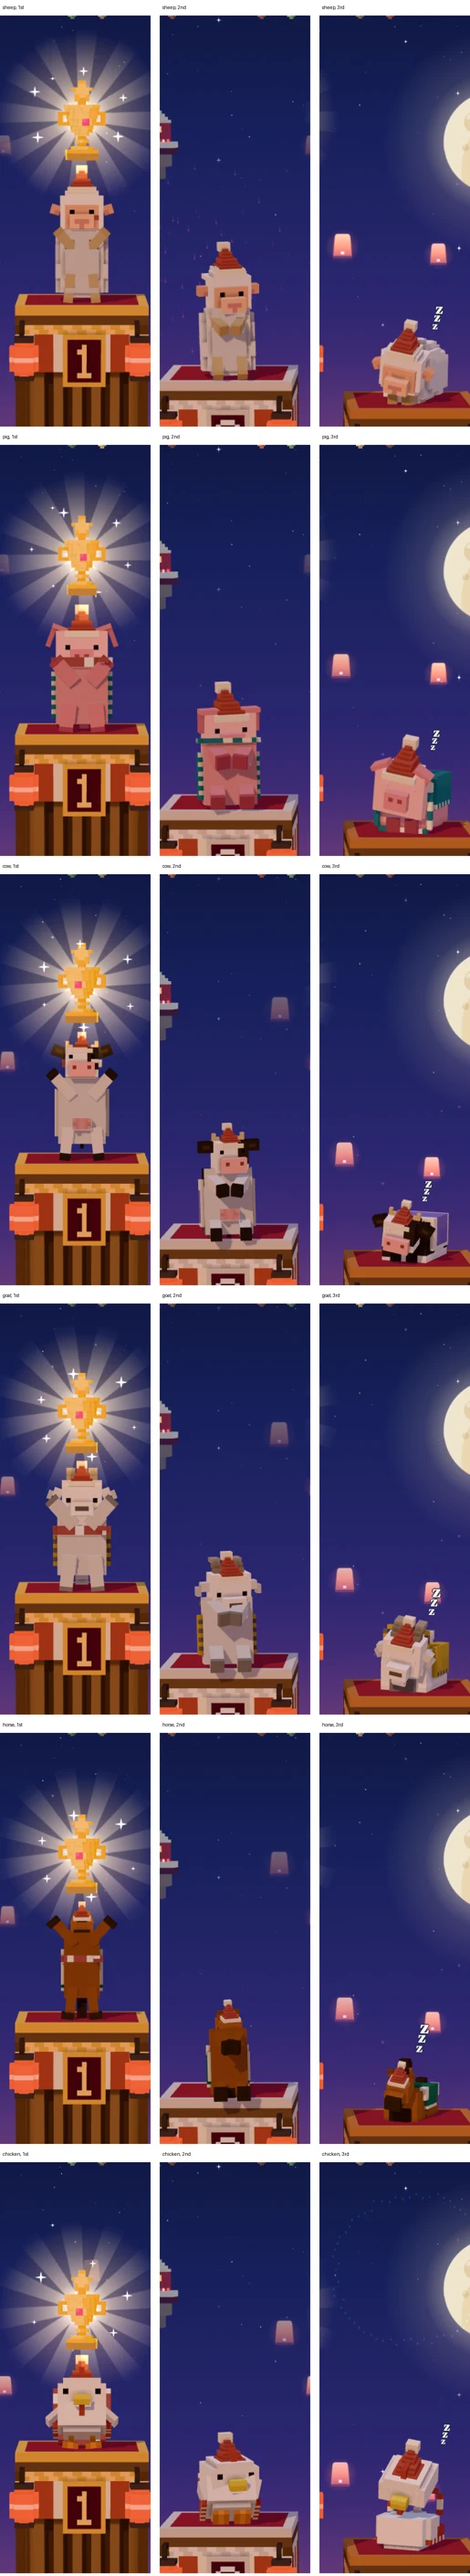
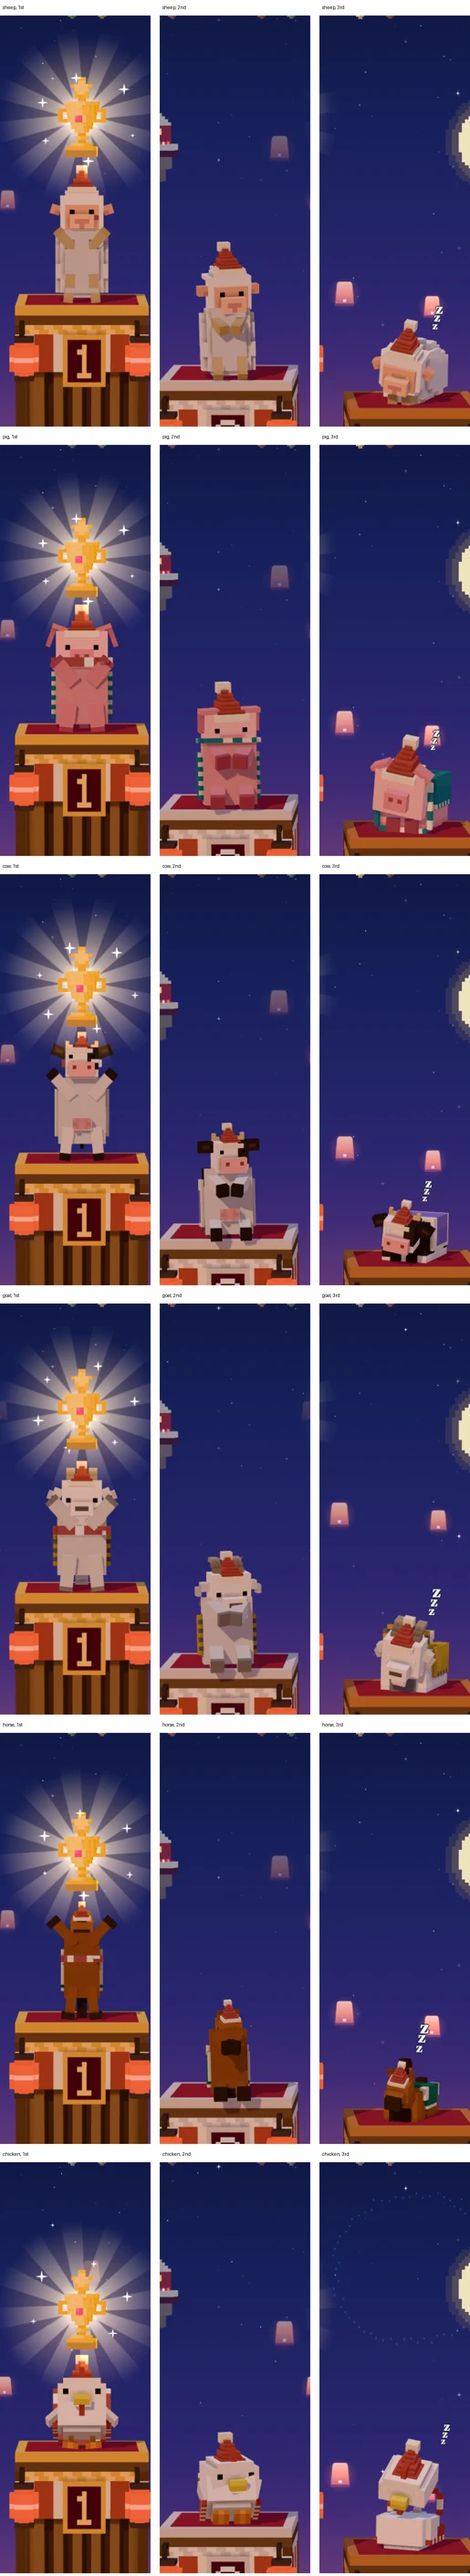
Leaderboards: a pixel-art moon, and no cloud bands
Brian, 2026-11-22: "the moon is so out of theme ... and on the left
theres a lot of these weird lines". The painted moon becomes a 32 x 32
pixel moon magnified with no smoothing (flat shade, square craters, a
glow in two warm steps), a little smaller; the thin cloud bands are
removed; the firework rocket's trail is a short spark, not a line.

Claude-Session: https://claude.ai/code/session_011o9Mj4ifzUNZZbM4Se6yLM

diff --git a/src/skin/boards/FestivalSky.tsx b/src/skin/boards/FestivalSky.tsx
@@ -4,6 +4,7 @@ import {
   AdditiveBlending, BufferGeometry, CanvasTexture, Color, Float32BufferAttribute, LineBasicMaterial, LineSegments, Points,
   PointsMaterial, SRGBColorSpace, ShaderMaterial, Sprite, SpriteMaterial, Vector2, Vector3,
 } from 'three';
+import { NearestFilter } from 'three';
 import type { Texture } from 'three';
 import { spritePoints } from './points';
 import { MOON, PARTY_SKY } from './sky';
@@ -12,8 +13,8 @@ import { MOON, PARTY_SKY } from './sky';
  * The leaderboards' sky: a festival night (Brian, 2026-11-22: "make the background scenery cooler ... (the sky i mean,
  * not anything else) ... like an anime sky/day/night", then "go more for the vibe of like those anime festivals while
  * still being somewhat cohesive"). Behind the picture, painted bands from night blue to the warm glow of the festival
- * below the island; a big moon with a far island in front of it; stars, a few of them with a cross of light; three long
- * clouds lit from underneath; paper sky lanterns rising and swaying; and fireworks: a rocket climbs on its trail and
+ * below the island; a pixel moon with a far island in front of it; stars, a few of them with a cross of light; paper
+ * sky lanterns rising and swaying; and fireworks: a rocket climbs as a spark and
  * opens as a peony, a chrysanthemum, a ring or a golden willow, sparks trailing, the willow's glittering as it falls.
  * Everything is placed by spots of the window and sized by a share of the window's width, so it composes the same at
  * every size. Under reduced motion it is one still picture: no fireworks, the lanterns where they are, the stars steady.
@@ -39,48 +40,32 @@ function backdrop(): Texture {
   return texture(c);
 }
 
-/** The moon: a soft halo, a pale disc shaded on its lower right, five craters, a thin lit rim. */
+/**
+ * The moon in the game's own blocky make (Brian, 2026-11-22: the painted moon was "so out of theme"): a pixel disc 22
+ * pixels across, cream, its lower right a step darker, four square craters each with a lit pixel above it, and a glow
+ * in two flat steps round it. Drawn on 32 x 32 and magnified with no smoothing, so every pixel stays a square.
+ */
+const MOON_PX = 32, MOON_R = 11;
 function moonTexture(): Texture {
-  const [c, x] = canvas(512, 512);
-  const halo = x.createRadialGradient(256, 256, 110, 256, 256, 256);
-  halo.addColorStop(0, 'rgba(255,236,205,0.42)'); halo.addColorStop(0.35, 'rgba(255,226,200,0.14)'); halo.addColorStop(1, 'rgba(255,220,200,0)');
-  x.fillStyle = halo; x.fillRect(0, 0, 512, 512);
-  x.save();
-  x.beginPath(); x.arc(256, 256, 116, 0, Math.PI * 2); x.clip();
-  x.fillStyle = '#FFF4DC'; x.fillRect(0, 0, 512, 512);
-  x.fillStyle = 'rgba(232, 205, 160, 0.55)'; x.beginPath(); x.arc(330, 320, 150, 0, Math.PI * 2); x.fill();
-  for (const [cx, cy, r] of [[210, 210, 24], [292, 250, 15], [236, 300, 12], [300, 186, 10], [190, 268, 8]]) {
-    x.fillStyle = 'rgba(214, 186, 140, 0.55)'; x.beginPath(); x.arc(cx, cy, r, 0, Math.PI * 2); x.fill();
-    x.fillStyle = 'rgba(255, 250, 238, 0.7)'; x.beginPath(); x.arc(cx - r * 0.25, cy - r * 0.25, r * 0.55, Math.PI * 1.05, Math.PI * 1.6); x.lineTo(cx - r * 0.25, cy - r * 0.25); x.fill();
+  const [c, x] = canvas(MOON_PX, MOON_PX);
+  const at = (px: number, py: number) => Math.hypot(px + 0.5 - MOON_PX / 2, py + 0.5 - MOON_PX / 2);
+  for (let py = 0; py < MOON_PX; py++) for (let px = 0; px < MOON_PX; px++) {
+    const d = at(px, py);
+    if (d <= MOON_R) {
+      const lit = Math.hypot(px + 0.5 - (MOON_PX / 2 - 3), py + 0.5 - (MOON_PX / 2 - 3)) <= MOON_R;
+      x.fillStyle = lit ? '#FBEFC8' : '#E6CF96';
+    } else if (d <= MOON_R + 2) x.fillStyle = 'rgba(255, 206, 110, 0.26)';   // a warm yellow, so over the blue it
+    else if (d <= MOON_R + 4) x.fillStyle = 'rgba(255, 196, 100, 0.11)';    // reads as glow, not grey
+    else continue;
+    x.fillRect(px, py, 1, 1);
   }
-  x.restore();
-  x.strokeStyle = 'rgba(255, 252, 240, 0.9)'; x.lineWidth = 3; x.beginPath(); x.arc(256, 256, 115, Math.PI * 0.95, Math.PI * 1.75); x.stroke();
-  return texture(c);
-}
-
-/** A long night cloud: a flat-bottomed band of rounded lobes, dark plum on top, lit coral and gold from beneath. */
-function cloudTexture(seed: number): Texture {
-  // Drawn on a strip only as tall as the cloud, so the sky's quads cover no more of the screen than they must.
-  const [c, x] = canvas(1024, 96);
-  x.translate(0, -48);
-  const lobes: [number, number, number, number][] = [];
-  for (let i = 0, px = 40; px < 984; i++) {
-    const rx = 50 + hash(i, seed) * 70, ry = 18 + hash(i + 50, seed) * 22 * Math.sin(Math.PI * (px / 1024)) + 8;
-    lobes.push([px + rx * 0.6, 120 - ry * 0.55, rx, ry]);
-    px += rx * 0.9;
+  for (const [cx, cy, w, h] of [[11, 11, 3, 2], [18, 14, 2, 2], [13, 19, 2, 2], [19, 9, 1, 1]]) {
+    x.fillStyle = '#E4CC92'; x.fillRect(cx, cy, w, h);
+    x.fillStyle = '#FFF8E2'; x.fillRect(cx, cy - 1, w, 1);
   }
-  const shape = () => {
-    x.beginPath();
-    for (const [cx, cy, rx, ry] of lobes) { x.moveTo(cx + rx, cy); x.ellipse(cx, cy, rx, ry, 0, 0, Math.PI * 2); }
-    x.rect(60, 112, 904, 22);
-  };
-  const fill = x.createLinearGradient(0, 60, 0, 140);
-  fill.addColorStop(0, '#3B2D70'); fill.addColorStop(0.55, '#6A3F88'); fill.addColorStop(1, '#D9776F');
-  x.fillStyle = fill; shape(); x.fill();
-  x.save(); shape(); x.clip();
-  x.fillStyle = 'rgba(255, 190, 140, 0.85)'; x.fillRect(0, 126, 1024, 8);   // the lit underside, a hard line
-  x.restore();
-  return texture(c);
+  const t = texture(c);
+  t.magFilter = NearestFilter; t.minFilter = NearestFilter; t.generateMipmaps = false;
+  return t;
 }
 
 /** A paper sky lantern, lit: a soft glow, a tapered body warm at its heart, a dark rim at its open foot. */
@@ -137,7 +122,6 @@ const starMaterial = () => new ShaderMaterial({
 });
 
 const STARS = 170, LANTERNS = 24, SHELLS = 3, SPARKS = 72;
-const CLOUDS = [{ fy: 0.62, w: 0.75, fx: 0.12, seed: 1, speed: 0.004 }, { fy: 0.73, w: 1.05, fx: 0.72, seed: 2, speed: -0.003 }, { fy: 0.85, w: 1.2, fx: 0.4, seed: 3, speed: 0.002 }];
 const FIRE = ['#FF5C6A', '#FFD36B', '#7CF2A0', '#7FC6FF', '#C890FF', '#FF92D0', '#FFFFFF'];
 type Kind = 'peony' | 'chrysanthemum' | 'ring' | 'willow';
 const KINDS: Record<Kind, { life: number; radius: number; drag: number; fall: number; tail: number; glitter: boolean }> = {
@@ -153,13 +137,13 @@ const CLIMB = 0.95, EVERY = 1.7;
 export function FestivalSky({ place, version, reduced }: { place: { current: Place | null }; version: number; reduced: boolean }) {
   const scene = useThree((st) => st.scene);
   const gl = useThree((st) => st.gl);
-  const tex = useMemo(() => ({ sky: backdrop(), moon: moonTexture(), lantern: lanternTexture(), spark: sparkTexture(), clouds: CLOUDS.map((c) => cloudTexture(c.seed)) }), []);
+  const tex = useMemo(() => ({ sky: backdrop(), moon: moonTexture(), lantern: lanternTexture(), spark: sparkTexture() }), []);
   useEffect(() => {
     const before = scene.background;
     scene.background = tex.sky;
     return () => { scene.background = before; };
   }, [scene, tex]);
-  useEffect(() => () => { tex.sky.dispose(); tex.moon.dispose(); tex.lantern.dispose(); tex.spark.dispose(); tex.clouds.forEach((t) => t.dispose()); }, [tex]);
+  useEffect(() => () => { tex.sky.dispose(); tex.moon.dispose(); tex.lantern.dispose(); tex.spark.dispose(); }, [tex]);
 
   const parts = useMemo(() => {
     const sprite = (map: Texture, additive = false) => new Sprite(new SpriteMaterial({ map, transparent: true, depthWrite: false, fog: false, ...(additive ? { blending: AdditiveBlending } : {}) }));
@@ -190,7 +174,6 @@ export function FestivalSky({ place, version, reduced }: { place: { current: Pla
     return {
       stars, lines, heads,
       moon: sprite(tex.moon),
-      clouds: CLOUDS.map((_, i) => sprite(tex.clouds[i])),
       // All the lanterns in one draw; light added, so a faint one is a dim glow, never grey.
       lanterns: (() => {
         const g = new BufferGeometry();
@@ -225,8 +208,7 @@ export function FestivalSky({ place, version, reduced }: { place: { current: Pla
     pos.needsUpdate = true;
     // The moon, behind the far island C.
     const m = at(MOON.fx, MOON.fy, 22);
-    if (m) { parts.moon.position.copy(m); parts.moon.scale.setScalar(u(22) * MOON.size * (512 / 232)); }
-    parts.clouds.forEach((c, i) => c.scale.set(u(16) * CLOUDS[i].w, u(16) * CLOUDS[i].w * (96 / 1024), 1));
+    if (m) { parts.moon.position.copy(m); parts.moon.scale.setScalar(u(22) * MOON.size * (MOON_PX / (2 * MOON_R))); }
   }, [place, version, parts]);
 
   const shells = useRef(Array.from({ length: SHELLS }, () => ({ slot: -1, start: -99, fx: 0, fy: 0, kind: 'peony' as Kind, c1: new Color(), c2: new Color(), dirs: [] as Vector3[] })));
@@ -238,12 +220,6 @@ export function FestivalSky({ place, version, reduced }: { place: { current: Pla
     const t = reduced ? 0 : clock.elapsedTime;
     (parts.stars.material as ShaderMaterial).uniforms.time.value = t;
     (parts.stars.material as ShaderMaterial).uniforms.ratio.value = gl.getPixelRatio();
-    // Clouds drift slowly, each its own way, and come round again.
-    parts.clouds.forEach((c, i) => {
-      const f = CLOUDS[i], fx = ((((f.fx + t * f.speed) % 1.6) + 1.6) % 1.6) - 0.3;
-      const p = at(fx, f.fy, 16);
-      if (p) c.position.copy(p);
-    });
     // Sky lanterns rise from below the island and drift, the nearer ones larger, brighter and quicker.
     const lPos = parts.lanterns.geometry.getAttribute('position'), lSize = parts.lanterns.geometry.getAttribute('size'), lAlpha = parts.lanterns.geometry.getAttribute('alpha');
     (parts.lanterns.material as ShaderMaterial).uniforms.scale.value = gl.getDrawingBufferSize(v.buf).y / 2;
@@ -293,10 +269,11 @@ export function FestivalSky({ place, version, reduced }: { place: { current: Pla
       // The rocket: a warm spark climbing on its trail, slowing as it nears the top.
       const climbing = live && age < CLIMB && b;
       const lift = (a: number) => { const e = 1 - (1 - Math.min(1, a / CLIMB)) ** 2; return at(s.fx + Math.sin(a * 18) * 0.002, 1.06 + (s.fy - 1.06) * e, 12); };
-      const head = climbing ? lift(age) : null, tail = climbing ? lift(Math.max(0, age - 0.16)) : null;
+      // A short trail: a spark climbing, not a line drawn up the sky.
+      const head = climbing ? lift(age) : null, tail = climbing ? lift(Math.max(0, age - 0.06)) : null;
       if (head && tail) {
         lp.setXYZ(base * 2, tail.x, tail.y, tail.z); lp.setXYZ(base * 2 + 1, head.x, head.y, head.z);
-        lc.setXYZ(base * 2, 0.15, 0.1, 0.05); lc.setXYZ(base * 2 + 1, 1, 0.85, 0.6);
+        lc.setXYZ(base * 2, 0, 0, 0); lc.setXYZ(base * 2 + 1, 0.9, 0.7, 0.45);
         hp.setXYZ(base, head.x, head.y, head.z); hc.setXYZ(base, 1, 0.9, 0.7);
       } else { lc.setXYZ(base * 2, 0, 0, 0); lc.setXYZ(base * 2 + 1, 0, 0, 0); hc.setXYZ(base, 0, 0, 0); }
       // The burst: each spark flies out, slowed by the air and pulled down, its trail behind it; the colour turns at
@@ -327,7 +304,6 @@ export function FestivalSky({ place, version, reduced }: { place: { current: Pla
     <group>
       <primitive object={parts.stars} renderOrder={-5} />
       <primitive object={parts.moon} renderOrder={-4} />
-      {parts.clouds.map((c, i) => <primitive key={`c${i}`} object={c} renderOrder={-3} />)}
       <primitive object={parts.lanterns} renderOrder={-2} />
       <primitive object={parts.lines} renderOrder={-1} />
       <primitive object={parts.heads} renderOrder={-1} />

diff --git a/src/skin/boards/__tests__/boards.test.tsx b/src/skin/boards/__tests__/boards.test.tsx
@@ -140,12 +140,16 @@ describe('the leaderboards page', () => {
     expect(stage).toContain('farIsland(');
     expect(stage + island).not.toMatch(/cloudSea|cloudGrid|island\('windmill'|Puffs|whiten|wisp\(/);
     // The sky is a festival night (Brian, 2026-11-22: "go more for the vibe of like those anime festivals while still
-    // being somewhat cohesive"): painted bands behind the picture, a moon, stars, clouds lit from beneath, sky lanterns
-    // and fireworks, all in FestivalSky.tsx; no voxel clouds.
+    // being somewhat cohesive"): painted bands behind the picture, a moon, stars, sky lanterns and fireworks, all in
+    // FestivalSky.tsx; no clouds.
     const sky = src('src/skin/boards/FestivalSky.tsx');
     expect(stage).toContain('<FestivalSky place={place}');
     expect(stage).not.toMatch(/<Dome\b|PartySky/);
-    for (const part of ['backdrop()', 'moonTexture()', 'cloudTexture(', 'lanternTexture()', 'KINDS', 'STARS']) expect(sky).toContain(part);
+    for (const part of ['backdrop()', 'moonTexture()', 'lanternTexture()', 'KINDS', 'STARS']) expect(sky).toContain(part);
+    // The moon is pixel art, magnified with no smoothing (Brian: the painted one was "so out of theme"), and the thin
+    // cloud bands are gone ("on the left theres a lot of these weird lines").
+    expect(sky).toContain('NearestFilter');
+    expect(sky).not.toMatch(/cloudTexture|CLOUDS/);
     expect(sky).not.toMatch(/Grid\(|buildGeometry/);
     // Version 3 (Brian, 2026-11-22): the stage's own three poses, handed to the Sheep component whole.
     for (const name of ["'lbChampion'", "'lbGoodSport'", "'lbNap'"]) expect(poses).toContain(`name: ${name}`);

diff --git a/src/skin/boards/sky.ts b/src/skin/boards/sky.ts
@@ -22,5 +22,5 @@ export function skyAt(f: number): Color {
 /** The haze on the near island: the night's plum. */
 export const PARTY_FOG = '#4A3478';
 /** Where the moon stands, as a fraction of the window (across, down), and how much of its width it spans. */
-export const MOON = { fx: 0.795, fy: 0.17, size: 0.12 } as const;
+export const MOON = { fx: 0.795, fy: 0.17, size: 0.085 } as const;
 

diff --git a/CLAUDE.md b/CLAUDE.md
@@ -2195,14 +2195,16 @@ the crates here (the victory screen keeps its crates), all three places are one 
   little. No light of its own (one whitened the champion's wool in version 2): the stage's one point light is still the
   lantern's.
 - The sky (sky.ts, FestivalSky.tsx): a festival night. Painted bands behind the picture (night blue, indigo, plum, and
-  the festival's warm glow rising behind the island); a big moon with far island C in front of it (`MOON`); stars,
-  thinning toward the glow, a few with a cross of light; three long clouds lit coral from beneath; sky lanterns rising
-  and swaying (added light, so a faint one is a dim glow, never grey); and fireworks in the open sky either side of the
-  stage, never over the moon, the trophy or the podiums: a rocket climbs on its trail, then a peony (with an inner ring
+  the festival's warm glow rising behind the island); a moon in pixel art (32 x 32, magnified with no smoothing: Brian
+  found the painted one "so out of theme") with far island C over it (`MOON`); stars, thinning toward the glow, a few
+  with a cross of light; sky lanterns rising and swaying (added light, so a faint one is a dim glow, never grey); and
+  fireworks in the open sky either side of the stage, never over the moon, the trophy or the podiums: a rocket climbs as
+  a short spark, then a peony (with an inner ring
   in a second colour), a chrysanthemum, a ring or a golden willow opens, its sparks trailing and drooping a little, the
   glittering kinds flickering as they fade (a stronger pull read as rain). Everything is placed by spots of the window
   and sized by shares of its width, so it composes the same at every size. The far islands mix toward the band at their
   height, the barn's windows are lit, and a string of festival lamps runs along each island's front edge (`farLights`).
+  No clouds: the long thin bands read as "a lot of these weird lines" (Brian); do not bring back thin streaks in the sky.
   Light: a warm key as from lanterns, a cool sky fill over a warm ground, the moon's blue on the edges, the festival's
   glow from below, a thin plum haze.
 - Framing (frame.ts): the plan's 66% holds only where the window is tall enough. With the trophy floating over the

diff --git a/CHANGELOG.md b/CHANGELOG.md
@@ -6,7 +6,7 @@ All user-visible changes, newest first.
 
 - The leaderboards' top three have new poses, all drawn the same size: first stands with both arms raised in a V and hops, a new golden trophy with a ruby and a star floating and glowing over its head; second sits on its podium's edge, turned to the winner, clapping, its legs swinging; third naps curled up with its eyes shut, its "z"s drifting up.
 - The podiums are festival stages: dark posts and slatted walls, a red-and-white striped curtain under a rope of gold, silver or bronze, the place's number on a lacquered sign, and a lit paper lantern at each front corner.
-- A festival night sky: a big moon behind a far island, stars, clouds lit from below, paper sky lanterns rising, and fireworks that climb and open as peonies, chrysanthemums, rings and golden willows. The far islands have lit windows and strings of festival lights.
+- A festival night sky: a pixel-art moon under a far island, stars, paper sky lanterns rising, and fireworks that climb and open as peonies, chrysanthemums, rings and golden willows. The far islands have lit windows and strings of festival lights.
 - The island under them is rebuilt: level snow with one step, drifts, wind ripples and footprints, a clean rim of snow over soil with stones, roots and icicles, banded rock underneath with two floating rocks; the pines, fence, bales and a smaller lantern are spread so each is in full view, and the pines sway. Three small islands far off, one with a little red barn.
 
 ## 0.9.4
